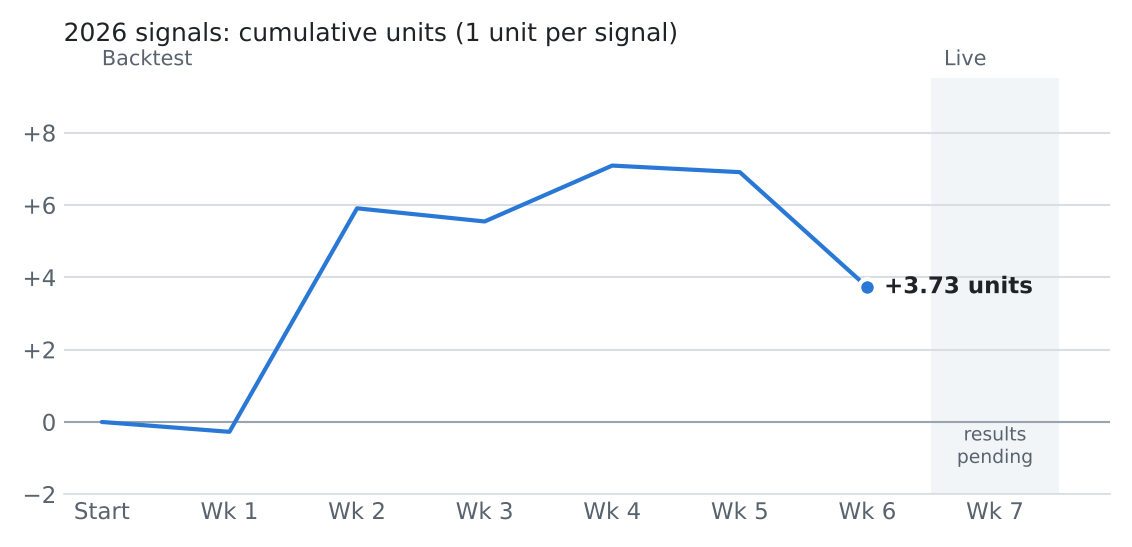
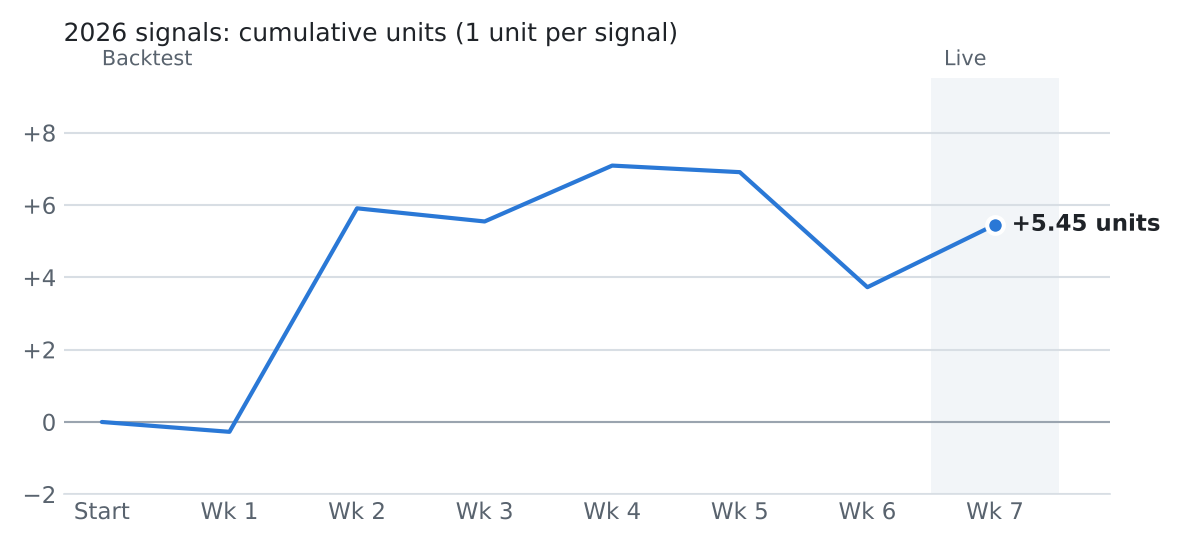
Grade 2026 Week 7: posted totals went 3-1
The four overs posted Thu Oct 15 before kickoff, graded on final scores:
3 wins, 1 loss, +1.73 units at -110. Bets and ratings stay as posted; only
final scores and results were added.

Claude-Session: https://claude.ai/code/session_0159i4mMAddotb85D962zzsM

diff --git a/2026/week-07/ratings.md b/2026/week-07/ratings.md
@@ -8,61 +8,61 @@ Lines as of Thu Oct 15, 10:00 PM ET. Model = SP+ and BCF Toys FEI blended with t
 | Tue Oct 13, 8:00 PM ET | Florida International at Jacksonville State | Jacksonville State −3 | Jacksonville State by 3.1 | 58% Jacksonville State | Jacksonville State by 5.5 | Jacksonville State by 2.5 | 44.5 | 44.2 | 44.9 | 24–27 |
 | Wed Oct 14, 7:30 PM ET | Kennesaw State at Missouri State | Kennesaw State −2.5 | Kennesaw State by 2.6 | 55% Kennesaw State | Kennesaw State by 7.2 | Missouri State by 1.3 | 51.5 | 52.5 | 51.9 | 21–24 |
 | Wed Oct 14, 8:00 PM ET | Western Kentucky at Sam Houston | Western Kentucky −1.5 | Western Kentucky by 1.2 | 51% Western Kentucky | Western Kentucky by 1.0 | Sam Houston by 0.5 | 51.5 | 53.5 | 51.5 | 16–3 |
-| Thu Oct 15, 7:30 PM ET | East Carolina at UAB | East Carolina −4.5 | East Carolina by 5.0 | 63% East Carolina | East Carolina by 9.0 | East Carolina by 8.8 | 49.5 | 49.2 | 49.1 |  |
-| Thu Oct 15, 7:30 PM ET | Georgia Southern at Old Dominion | Georgia Southern −3 | Georgia Southern by 2.9 | 57% Georgia Southern | Georgia Southern by 2.8 | Old Dominion by 0.3 | 47.5 | 44.5 | 47.9 |  |
-| Thu Oct 15, 8:00 PM ET | Colorado State at Texas State | Texas State −15.5 | Texas State by 14.9 | 83% Texas State | Texas State by 10.1 | Texas State by 9.0 | 67.5 | 69.8 | 66.8 |  |
-| Fri Oct 16, 7:30 PM ET | Memphis at Tulane | Memphis −7 | Memphis by 7.2 | 70% Memphis | Memphis by 12.6 | Memphis by 5.6 | 53.5 | 55.5 | 53.4 |  |
-| Fri Oct 16, 8:00 PM ET | Washington at Purdue | Purdue −3.5 | Purdue by 3.2 | 58% Purdue | Washington by 3.0 | Washington by 0.4 | 52.5 | 50.5 | 53.2 |  |
-| Fri Oct 16, 8:00 PM ET | App State at Coastal Carolina | App State −1.5 | App State by 1.3 | 51% App State | App State by 2.5 | Coastal Carolina by 0.8 | 51.5 | 48.5 | 51.7 |  |
-| Sat Oct 17, 12:00 PM ET | Mississippi State at LSU | LSU −15.5 | LSU by 15.4 | 84% LSU | LSU by 11.6 | LSU by 7.1 | 58.5 | 57.2 | 58.1 |  |
-| Sat Oct 17, 12:00 PM ET | Florida at Texas | Texas −11.5 | Texas by 11.5 | 78% Texas | Texas by 15.9 | Texas by 14.2 | 52.5 | 51.5 | 52.9 |  |
-| Sat Oct 17, 12:00 PM ET | Cincinnati at West Virginia | West Virginia −1.5 | West Virginia by 1.5 | 52% West Virginia | Cincinnati by 3.4 | Cincinnati by 0.2 | 62.5 | 63.5 | 62.2 |  |
-| Sat Oct 17, 12:00 PM ET | Kansas at Kansas State | Kansas State −4.5 | Kansas State by 4.6 | 63% Kansas State | Kansas State by 6.3 | Kansas State by 5.0 | 55.5 | 55.5 | 55.3 |  |
-| Sat Oct 17, 12:00 PM ET | Charleston Southern at Clemson | Clemson −43.5 | Clemson by 42.9 | 99% Clemson | Clemson by 33.5 | — | — | — | — |  |
-| Sat Oct 17, 12:00 PM ET | Pittsburgh at Boston College | Pittsburgh −6.5 | Pittsburgh by 6.6 | 66% Pittsburgh | Pittsburgh by 12.8 | Pittsburgh by 11.4 | 43.5 | 42.5 | 44.1 |  |
-| Sat Oct 17, 12:00 PM ET | Virginia at SMU | SMU −9.5 | SMU by 9.3 | 74% SMU | SMU by 6.8 | SMU by 5.4 | 52.5 | 51.8 | 52.5 |  |
-| Sat Oct 17, 12:00 PM ET | Ohio State at Indiana | Ohio State −3.5 | Ohio State by 3.4 | 60% Ohio State | Ohio State by 0.2 | Ohio State by 2.0 | 51.5 | 50.2 | 51.8 |  |
-| Sat Oct 17, 12:00 PM ET | Northwestern at Michigan State | Northwestern −7 | Northwestern by 7.3 | 70% Northwestern | Northwestern by 14.3 | Northwestern by 9.7 | 48.5 | 49.2 | 49.6 |  |
-| Sat Oct 17, 12:00 PM ET | Florida Atlantic at Army | Army −2.5 | Army by 2.6 | 54% Army | Army by 1.5 | Army by 9.7 | 56.5 | 54.5 | 56.7 |  |
-| Sat Oct 17, 12:00 PM ET | Ball State at Bowling Green | Bowling Green −6.5 | Bowling Green by 6.7 | 67% Bowling Green | Bowling Green by 9.7 | Bowling Green by 11.6 | 44.5 | 47.5 | 45.6 |  |
-| Sat Oct 17, 12:00 PM ET | Georgia State at James Madison | James Madison −10.5 | James Madison by 10.8 | 77% James Madison | James Madison by 16.7 | James Madison by 11.7 | 58.5 | 57.5 | 57.9 |  |
-| Sat Oct 17, 12:30 PM ET | Rutgers at Maryland | Maryland −5.5 | Maryland by 5.6 | 64% Maryland | Maryland by 5.9 | Maryland by 7.8 | 59.5 | 56.5 | 59.2 |  |
-| Sat Oct 17, 1:00 PM ET | The Citadel at Texas A&M | Texas A&M −45.5 | Texas A&M by 45.9 | 100% Texas A&M | Texas A&M by 52.5 | — | — | — | — |  |
-| Sat Oct 17, 1:00 PM ET | Charlotte at Temple | Temple −21 | Temple by 20.8 | 90% Temple | Temple by 24.6 | Temple by 16.3 | 50.5 | 46.8 | 51.3 |  |
-| Sat Oct 17, 1:00 PM ET | Massachusetts at Buffalo | Buffalo −7 | Buffalo by 6.7 | 67% Buffalo | Massachusetts by 1.9 | Buffalo by 10.3 | 44.5 | 42.5 | 45.0 |  |
-| Sat Oct 17, 1:30 PM ET | Western Michigan at Central Michigan | Western Michigan −7 | Western Michigan by 7.2 | 70% Western Michigan | Western Michigan by 11.0 | Western Michigan by 10.3 | 42.5 | 43.2 | 43.5 |  |
-| Sat Oct 17, 3:30 PM ET | Auburn at Georgia | Georgia −19.5 | Georgia by 19.6 | 89% Georgia | Georgia by 19.8 | Georgia by 24.7 | 48.5 | 49.8 | 48.6 |  |
-| Sat Oct 17, 3:30 PM ET | Missouri at Ole Miss | Ole Miss −5.5 | Ole Miss by 5.2 | 64% Ole Miss | Ole Miss by 0.4 | Ole Miss by 2.2 | 59.5 | 58.8 | 58.5 |  |
-| Sat Oct 17, 3:30 PM ET | Alabama at Tennessee | Alabama −7.5 | Alabama by 7.4 | 70% Alabama | Alabama by 3.8 | Alabama by 9.5 | 53.5 | 50.8 | 53.7 |  |
-| Sat Oct 17, 3:30 PM ET | Arizona State at Texas Tech | Texas Tech −15.5 | Texas Tech by 15.7 | 84% Texas Tech | Texas Tech by 20.5 | Texas Tech by 15.5 | 48.5 | 49.5 | 48.8 |  |
-| Sat Oct 17, 3:30 PM ET | Georgia Tech at Virginia Tech | Virginia Tech −10 | Virginia Tech by 10.2 | 76% Virginia Tech | Virginia Tech by 10.7 | Virginia Tech by 5.9 | 55.5 | 56.2 | 55.5 |  |
-| Sat Oct 17, 3:30 PM ET | North Carolina at Duke | Duke −3 | Duke by 3.1 | 58% Duke | Duke by 5.8 | Duke by 5.4 | 47.5 | 47.2 | 48.5 |  |
-| Sat Oct 17, 3:30 PM ET | Penn State at Michigan | Michigan −7 | Michigan by 6.8 | 68% Michigan | Michigan by 6.0 | Penn State by 1.5 | 42.5 | 42.5 | 43.3 |  |
-| Sat Oct 17, 3:30 PM ET | Northern Illinois at Wyoming | Wyoming −8.5 | Wyoming by 8.3 | 72% Wyoming | Wyoming by 12.1 | Wyoming by 5.2 | 40.5 | 41.5 | 41.5 |  |
-| Sat Oct 17, 3:30 PM ET | UNLV at Air Force | Air Force −1.5 | Air Force by 1.6 | 52% Air Force | Air Force by 4.8 | Air Force by 2.8 | 46.5 | 47.8 | 47.7 |  |
-| Sat Oct 17, 3:30 PM ET | Toledo at Eastern Michigan | Toledo −6.5 | Toledo by 6.6 | 66% Toledo | Toledo by 6.7 | Toledo by 10.0 | 52.5 | 53.5 | 52.0 |  |
-| Sat Oct 17, 3:30 PM ET | Akron at Miami (OH) | Miami (OH) −10 | Miami (OH) by 10.2 | 76% Miami (OH) | Miami (OH) by 18.5 | Miami (OH) by 16.8 | 46.5 | 46.5 | 47.7 |  |
-| Sat Oct 17, 4:30 PM ET | Tulsa at Rice | Tulsa −4 | Tulsa by 4.1 | 62% Tulsa | Tulsa by 5.8 | Tulsa by 5.0 | 46.5 | 46.5 | 47.0 |  |
-| Sat Oct 17, 5:00 PM ET | Troy at Louisiana | Louisiana −3 | Louisiana by 3.1 | 58% Louisiana | Louisiana by 6.8 | Troy by 1.2 | 49.5 | 49.2 | 50.3 |  |
-| Sat Oct 17, 6:00 PM ET | Washington State at Oregon State | Oregon State −18.5 | Oregon State by 18.5 | 88% Oregon State | Oregon State by 20.7 | Oregon State by 11.8 | 53.5 | 52.5 | 52.4 |  |
-| Sat Oct 17, 7:00 PM ET | Arkansas at Vanderbilt | Vanderbilt −6 | Vanderbilt by 6.0 | 65% Vanderbilt | Vanderbilt by 6.1 | Vanderbilt by 4.2 | 50.5 | 49.8 | 51.6 |  |
-| Sat Oct 17, 7:00 PM ET | TCU at Baylor | Baylor −5.5 | Baylor by 5.8 | 65% Baylor | Baylor by 6.0 | Baylor by 5.6 | 49.5 | 48.2 | 49.0 |  |
-| Sat Oct 17, 7:00 PM ET | Florida State at Miami | Miami −21.5 | Miami by 21.6 | 91% Miami | Miami by 24.5 | Miami by 18.2 | 56.5 | 56.5 | 56.7 |  |
-| Sat Oct 17, 7:00 PM ET | Kent State at South Florida | South Florida −20.5 | South Florida by 20.9 | 90% South Florida | South Florida by 25.7 | South Florida by 19.8 | 46.5 | 45.5 | 47.1 |  |
-| Sat Oct 17, 7:00 PM ET | Nevada at North Dakota State | North Dakota State −14.5 | North Dakota State by 14.4 | 82% North Dakota State | North Dakota State by 15.4 | North Dakota State by 6.6 | 45.5 | 42.5 | 45.5 |  |
-| Sat Oct 17, 7:00 PM ET | Arkansas State at Southern Miss | Arkansas State −7 | Arkansas State by 6.7 | 67% Arkansas State | Arkansas State by 7.8 | Arkansas State by 2.4 | 61.5 | 62.2 | 61.0 |  |
-| Sat Oct 17, 7:30 PM ET | Kentucky at Oklahoma | Oklahoma −6.5 | Oklahoma by 6.5 | 66% Oklahoma | Oklahoma by 6.8 | Oklahoma by 5.6 | 43.5 | 43.5 | 44.5 |  |
-| Sat Oct 17, 7:30 PM ET | Notre Dame at BYU | Notre Dame −10.5 | Notre Dame by 10.3 | 76% Notre Dame | Notre Dame by 4.0 | Notre Dame by 10.9 | 47.5 | 46.5 | 48.4 |  |
-| Sat Oct 17, 7:30 PM ET | Oklahoma State at Houston | Houston −4.5 | Houston by 4.4 | 62% Houston | Houston by 4.4 | Houston by 10.9 | 60.5 | 62.5 | 59.7 |  |
-| Sat Oct 17, 7:30 PM ET | Elon at Stanford | Stanford −35.5 | Stanford by 34.4 | 98% Stanford | Stanford by 15.8 | — | — | — | — |  |
-| Sat Oct 17, 7:30 PM ET | Louisville at Syracuse | Louisville −15.5 | Louisville by 15.3 | 84% Louisville | Louisville by 10.9 | Louisville by 15.0 | 56.5 | 55.8 | 56.4 |  |
-| Sat Oct 17, 7:30 PM ET | Wisconsin at UCLA | UCLA −2.5 | UCLA by 2.7 | 55% UCLA | UCLA by 7.2 | UCLA by 2.8 | 46.5 | 42.8 | 46.7 |  |
-| Sat Oct 17, 8:00 PM ET | Navy at UTSA | UTSA −6.5 | UTSA by 6.6 | 67% UTSA | UTSA by 3.4 | UTSA by 7.0 | 54.5 | 55.5 | 54.4 |  |
-| Sat Oct 17, 8:00 PM ET | Louisiana Tech at UL Monroe | Louisiana Tech −15.5 | Louisiana Tech by 15.4 | 84% Louisiana Tech | Louisiana Tech by 20.0 | Louisiana Tech by 14.9 | 55.5 | 55.8 | 56.1 |  |
-| Sat Oct 17, 9:00 PM ET | San José State at UTEP | San José State −6.5 | San José State by 6.9 | 68% San José State | San José State by 9.9 | San José State by 10.7 | 49.5 | 45.5 | 48.9 |  |
-| Sat Oct 17, 10:00 PM ET | Ohio at Sacramento State | Ohio −15.5 | Ohio by 15.7 | 84% Ohio | Ohio by 15.5 | Ohio by 23.9 | 49.5 | 48.5 | 49.5 |  |
-| Sat Oct 17, 10:15 PM ET | Utah at Colorado | Utah −15.5 | Utah by 15.8 | 84% Utah | Utah by 23.4 | Utah by 26.5 | 49.5 | 49.5 | 49.5 |  |
-| Sat Oct 17, 10:30 PM ET | Wake Forest at California | Wake Forest −10 | Wake Forest by 10.1 | 76% Wake Forest | Wake Forest by 10.5 | Wake Forest by 13.7 | 53.5 | 53.5 | 53.4 |  |
-| Sat Oct 17, 10:30 PM ET | Fresno State at San Diego State | Fresno State −7.5 | Fresno State by 7.7 | 71% Fresno State | Fresno State by 11.3 | Fresno State by 7.8 | 44.5 | 45.5 | 45.4 |  |
-| Sat Oct 17, 10:30 PM ET | New Mexico at Hawai'i | New Mexico −15.5 | New Mexico by 15.8 | 84% New Mexico | New Mexico by 22.7 | New Mexico by 17.4 | 45.5 | 44.5 | 46.2 |  |
-| Sat Oct 17, 11:00 PM ET | Nebraska at Oregon | Oregon −7 | Oregon by 7.0 | 69% Oregon | Oregon by 6.6 | Oregon by 8.1 | 52.5 | 51.5 | 52.8 |  |
+| Thu Oct 15, 7:30 PM ET | East Carolina at UAB | East Carolina −4.5 | East Carolina by 5.0 | 63% East Carolina | East Carolina by 9.0 | East Carolina by 8.8 | 49.5 | 49.2 | 49.1 | 17–30 |
+| Thu Oct 15, 7:30 PM ET | Georgia Southern at Old Dominion | Georgia Southern −3 | Georgia Southern by 2.9 | 57% Georgia Southern | Georgia Southern by 2.8 | Old Dominion by 0.3 | 47.5 | 44.5 | 47.9 | 23–15 |
+| Thu Oct 15, 8:00 PM ET | Colorado State at Texas State | Texas State −15.5 | Texas State by 14.9 | 83% Texas State | Texas State by 10.1 | Texas State by 9.0 | 67.5 | 69.8 | 66.8 | 27–66 |
+| Fri Oct 16, 7:30 PM ET | Memphis at Tulane | Memphis −7 | Memphis by 7.2 | 70% Memphis | Memphis by 12.6 | Memphis by 5.6 | 53.5 | 55.5 | 53.4 | 17–31 |
+| Fri Oct 16, 8:00 PM ET | Washington at Purdue | Purdue −3.5 | Purdue by 3.2 | 58% Purdue | Washington by 3.0 | Washington by 0.4 | 52.5 | 50.5 | 53.2 | 38–26 |
+| Fri Oct 16, 8:00 PM ET | App State at Coastal Carolina | App State −1.5 | App State by 1.3 | 51% App State | App State by 2.5 | Coastal Carolina by 0.8 | 51.5 | 48.5 | 51.7 | 35–32 |
+| Sat Oct 17, 12:00 PM ET | Mississippi State at LSU | LSU −15.5 | LSU by 15.4 | 84% LSU | LSU by 11.6 | LSU by 7.1 | 58.5 | 57.2 | 58.1 | 0–31 |
+| Sat Oct 17, 12:00 PM ET | Florida at Texas | Texas −11.5 | Texas by 11.5 | 78% Texas | Texas by 15.9 | Texas by 14.2 | 52.5 | 51.5 | 52.9 | 27–24 |
+| Sat Oct 17, 12:00 PM ET | Cincinnati at West Virginia | West Virginia −1.5 | West Virginia by 1.5 | 52% West Virginia | Cincinnati by 3.4 | Cincinnati by 0.2 | 62.5 | 63.5 | 62.2 | 42–45 |
+| Sat Oct 17, 12:00 PM ET | Kansas at Kansas State | Kansas State −4.5 | Kansas State by 4.6 | 63% Kansas State | Kansas State by 6.3 | Kansas State by 5.0 | 55.5 | 55.5 | 55.3 | 24–35 |
+| Sat Oct 17, 12:00 PM ET | Charleston Southern at Clemson | Clemson −43.5 | Clemson by 42.9 | 99% Clemson | Clemson by 33.5 | — | — | — | — | 0–37 |
+| Sat Oct 17, 12:00 PM ET | Pittsburgh at Boston College | Pittsburgh −6.5 | Pittsburgh by 6.6 | 66% Pittsburgh | Pittsburgh by 12.8 | Pittsburgh by 11.4 | 43.5 | 42.5 | 44.1 | 21–27 |
+| Sat Oct 17, 12:00 PM ET | Virginia at SMU | SMU −9.5 | SMU by 9.3 | 74% SMU | SMU by 6.8 | SMU by 5.4 | 52.5 | 51.8 | 52.5 | 13–23 |
+| Sat Oct 17, 12:00 PM ET | Ohio State at Indiana | Ohio State −3.5 | Ohio State by 3.4 | 60% Ohio State | Ohio State by 0.2 | Ohio State by 2.0 | 51.5 | 50.2 | 51.8 | 19–15 |
+| Sat Oct 17, 12:00 PM ET | Northwestern at Michigan State | Northwestern −7 | Northwestern by 7.3 | 70% Northwestern | Northwestern by 14.3 | Northwestern by 9.7 | 48.5 | 49.2 | 49.6 | 24–21 |
+| Sat Oct 17, 12:00 PM ET | Florida Atlantic at Army | Army −2.5 | Army by 2.6 | 54% Army | Army by 1.5 | Army by 9.7 | 56.5 | 54.5 | 56.7 | 24–56 |
+| Sat Oct 17, 12:00 PM ET | Ball State at Bowling Green | Bowling Green −6.5 | Bowling Green by 6.7 | 67% Bowling Green | Bowling Green by 9.7 | Bowling Green by 11.6 | 44.5 | 47.5 | 45.6 | 32–31 |
+| Sat Oct 17, 12:00 PM ET | Georgia State at James Madison | James Madison −10.5 | James Madison by 10.8 | 77% James Madison | James Madison by 16.7 | James Madison by 11.7 | 58.5 | 57.5 | 57.9 | 22–49 |
+| Sat Oct 17, 12:30 PM ET | Rutgers at Maryland | Maryland −5.5 | Maryland by 5.6 | 64% Maryland | Maryland by 5.9 | Maryland by 7.8 | 59.5 | 56.5 | 59.2 | 37–30 |
+| Sat Oct 17, 1:00 PM ET | The Citadel at Texas A&M | Texas A&M −45.5 | Texas A&M by 45.9 | 100% Texas A&M | Texas A&M by 52.5 | — | — | — | — | 0–41 |
+| Sat Oct 17, 1:00 PM ET | Charlotte at Temple | Temple −21 | Temple by 20.8 | 90% Temple | Temple by 24.6 | Temple by 16.3 | 50.5 | 46.8 | 51.3 | 38–31 |
+| Sat Oct 17, 1:00 PM ET | Massachusetts at Buffalo | Buffalo −7 | Buffalo by 6.7 | 67% Buffalo | Massachusetts by 1.9 | Buffalo by 10.3 | 44.5 | 42.5 | 45.0 | 18–25 |
+| Sat Oct 17, 1:30 PM ET | Western Michigan at Central Michigan | Western Michigan −7 | Western Michigan by 7.2 | 70% Western Michigan | Western Michigan by 11.0 | Western Michigan by 10.3 | 42.5 | 43.2 | 43.5 | 21–14 |
+| Sat Oct 17, 3:30 PM ET | Auburn at Georgia | Georgia −19.5 | Georgia by 19.6 | 89% Georgia | Georgia by 19.8 | Georgia by 24.7 | 48.5 | 49.8 | 48.6 | 27–24 |
+| Sat Oct 17, 3:30 PM ET | Missouri at Ole Miss | Ole Miss −5.5 | Ole Miss by 5.2 | 64% Ole Miss | Ole Miss by 0.4 | Ole Miss by 2.2 | 59.5 | 58.8 | 58.5 | 3–31 |
+| Sat Oct 17, 3:30 PM ET | Alabama at Tennessee | Alabama −7.5 | Alabama by 7.4 | 70% Alabama | Alabama by 3.8 | Alabama by 9.5 | 53.5 | 50.8 | 53.7 | 10–26 |
+| Sat Oct 17, 3:30 PM ET | Arizona State at Texas Tech | Texas Tech −15.5 | Texas Tech by 15.7 | 84% Texas Tech | Texas Tech by 20.5 | Texas Tech by 15.5 | 48.5 | 49.5 | 48.8 | 25–53 |
+| Sat Oct 17, 3:30 PM ET | Georgia Tech at Virginia Tech | Virginia Tech −10 | Virginia Tech by 10.2 | 76% Virginia Tech | Virginia Tech by 10.7 | Virginia Tech by 5.9 | 55.5 | 56.2 | 55.5 | 24–34 |
+| Sat Oct 17, 3:30 PM ET | North Carolina at Duke | Duke −3 | Duke by 3.1 | 58% Duke | Duke by 5.8 | Duke by 5.4 | 47.5 | 47.2 | 48.5 | 24–20 |
+| Sat Oct 17, 3:30 PM ET | Penn State at Michigan | Michigan −7 | Michigan by 6.8 | 68% Michigan | Michigan by 6.0 | Penn State by 1.5 | 42.5 | 42.5 | 43.3 | 18–21 |
+| Sat Oct 17, 3:30 PM ET | Northern Illinois at Wyoming | Wyoming −8.5 | Wyoming by 8.3 | 72% Wyoming | Wyoming by 12.1 | Wyoming by 5.2 | 40.5 | 41.5 | 41.5 | 23–41 |
+| Sat Oct 17, 3:30 PM ET | UNLV at Air Force | Air Force −1.5 | Air Force by 1.6 | 52% Air Force | Air Force by 4.8 | Air Force by 2.8 | 46.5 | 47.8 | 47.7 | 31–41 |
+| Sat Oct 17, 3:30 PM ET | Toledo at Eastern Michigan | Toledo −6.5 | Toledo by 6.6 | 66% Toledo | Toledo by 6.7 | Toledo by 10.0 | 52.5 | 53.5 | 52.0 | 34–14 |
+| Sat Oct 17, 3:30 PM ET | Akron at Miami (OH) | Miami (OH) −10 | Miami (OH) by 10.2 | 76% Miami (OH) | Miami (OH) by 18.5 | Miami (OH) by 16.8 | 46.5 | 46.5 | 47.7 | 14–34 |
+| Sat Oct 17, 4:30 PM ET | Tulsa at Rice | Tulsa −4 | Tulsa by 4.1 | 62% Tulsa | Tulsa by 5.8 | Tulsa by 5.0 | 46.5 | 46.5 | 47.0 | 38–17 |
+| Sat Oct 17, 5:00 PM ET | Troy at Louisiana | Louisiana −3 | Louisiana by 3.1 | 58% Louisiana | Louisiana by 6.8 | Troy by 1.2 | 49.5 | 49.2 | 50.3 | 6–33 |
+| Sat Oct 17, 6:00 PM ET | Washington State at Oregon State | Oregon State −18.5 | Oregon State by 18.5 | 88% Oregon State | Oregon State by 20.7 | Oregon State by 11.8 | 53.5 | 52.5 | 52.4 | 30–48 |
+| Sat Oct 17, 7:00 PM ET | Arkansas at Vanderbilt | Vanderbilt −6 | Vanderbilt by 6.0 | 65% Vanderbilt | Vanderbilt by 6.1 | Vanderbilt by 4.2 | 50.5 | 49.8 | 51.6 | 31–21 |
+| Sat Oct 17, 7:00 PM ET | TCU at Baylor | Baylor −5.5 | Baylor by 5.8 | 65% Baylor | Baylor by 6.0 | Baylor by 5.6 | 49.5 | 48.2 | 49.0 | 17–6 |
+| Sat Oct 17, 7:00 PM ET | Florida State at Miami | Miami −21.5 | Miami by 21.6 | 91% Miami | Miami by 24.5 | Miami by 18.2 | 56.5 | 56.5 | 56.7 | 35–43 |
+| Sat Oct 17, 7:00 PM ET | Kent State at South Florida | South Florida −20.5 | South Florida by 20.9 | 90% South Florida | South Florida by 25.7 | South Florida by 19.8 | 46.5 | 45.5 | 47.1 | 2–29 |
+| Sat Oct 17, 7:00 PM ET | Nevada at North Dakota State | North Dakota State −14.5 | North Dakota State by 14.4 | 82% North Dakota State | North Dakota State by 15.4 | North Dakota State by 6.6 | 45.5 | 42.5 | 45.5 | 17–31 |
+| Sat Oct 17, 7:00 PM ET | Arkansas State at Southern Miss | Arkansas State −7 | Arkansas State by 6.7 | 67% Arkansas State | Arkansas State by 7.8 | Arkansas State by 2.4 | 61.5 | 62.2 | 61.0 | 23–13 |
+| Sat Oct 17, 7:30 PM ET | Kentucky at Oklahoma | Oklahoma −6.5 | Oklahoma by 6.5 | 66% Oklahoma | Oklahoma by 6.8 | Oklahoma by 5.6 | 43.5 | 43.5 | 44.5 | 21–13 |
+| Sat Oct 17, 7:30 PM ET | Notre Dame at BYU | Notre Dame −10.5 | Notre Dame by 10.3 | 76% Notre Dame | Notre Dame by 4.0 | Notre Dame by 10.9 | 47.5 | 46.5 | 48.4 | 24–28 |
+| Sat Oct 17, 7:30 PM ET | Oklahoma State at Houston | Houston −4.5 | Houston by 4.4 | 62% Houston | Houston by 4.4 | Houston by 10.9 | 60.5 | 62.5 | 59.7 | 32–35 |
+| Sat Oct 17, 7:30 PM ET | Elon at Stanford | Stanford −35.5 | Stanford by 34.4 | 98% Stanford | Stanford by 15.8 | — | — | — | — | 7–34 |
+| Sat Oct 17, 7:30 PM ET | Louisville at Syracuse | Louisville −15.5 | Louisville by 15.3 | 84% Louisville | Louisville by 10.9 | Louisville by 15.0 | 56.5 | 55.8 | 56.4 | 34–26 |
+| Sat Oct 17, 7:30 PM ET | Wisconsin at UCLA | UCLA −2.5 | UCLA by 2.7 | 55% UCLA | UCLA by 7.2 | UCLA by 2.8 | 46.5 | 42.8 | 46.7 | 7–17 |
+| Sat Oct 17, 8:00 PM ET | Navy at UTSA | UTSA −6.5 | UTSA by 6.6 | 67% UTSA | UTSA by 3.4 | UTSA by 7.0 | 54.5 | 55.5 | 54.4 | 34–38 |
+| Sat Oct 17, 8:00 PM ET | Louisiana Tech at UL Monroe | Louisiana Tech −15.5 | Louisiana Tech by 15.4 | 84% Louisiana Tech | Louisiana Tech by 20.0 | Louisiana Tech by 14.9 | 55.5 | 55.8 | 56.1 | 24–0 |
+| Sat Oct 17, 9:00 PM ET | San José State at UTEP | San José State −6.5 | San José State by 6.9 | 68% San José State | San José State by 9.9 | San José State by 10.7 | 49.5 | 45.5 | 48.9 | 24–11 |
+| Sat Oct 17, 10:00 PM ET | Ohio at Sacramento State | Ohio −15.5 | Ohio by 15.7 | 84% Ohio | Ohio by 15.5 | Ohio by 23.9 | 49.5 | 48.5 | 49.5 | 48–7 |
+| Sat Oct 17, 10:15 PM ET | Utah at Colorado | Utah −15.5 | Utah by 15.8 | 84% Utah | Utah by 23.4 | Utah by 26.5 | 49.5 | 49.5 | 49.5 | 27–24 |
+| Sat Oct 17, 10:30 PM ET | Wake Forest at California | Wake Forest −10 | Wake Forest by 10.1 | 76% Wake Forest | Wake Forest by 10.5 | Wake Forest by 13.7 | 53.5 | 53.5 | 53.4 | 41–7 |
+| Sat Oct 17, 10:30 PM ET | Fresno State at San Diego State | Fresno State −7.5 | Fresno State by 7.7 | 71% Fresno State | Fresno State by 11.3 | Fresno State by 7.8 | 44.5 | 45.5 | 45.4 | 23–26 |
+| Sat Oct 17, 10:30 PM ET | New Mexico at Hawai'i | New Mexico −15.5 | New Mexico by 15.8 | 84% New Mexico | New Mexico by 22.7 | New Mexico by 17.4 | 45.5 | 44.5 | 46.2 | 21–10 |
+| Sat Oct 17, 11:00 PM ET | Nebraska at Oregon | Oregon −7 | Oregon by 7.0 | 69% Oregon | Oregon by 6.6 | Oregon by 8.1 | 52.5 | 51.5 | 52.8 | 14–17 |

diff --git a/2026/week-07/README.md b/2026/week-07/README.md
@@ -8,12 +8,12 @@ Live: posted Thu Oct 15, 10:00 PM ET, before every signal's kickoff. Signals are
 
 | Kickoff | Game | Bet | Rule | Model | EV | Result |
 |---|---|---|---|---|---:|---|
-| Sat Oct 17, 12:00 PM ET | Ball State at Bowling Green | **Over 44.5** | Totals, early number | total 45.6 | +2.9% | pending |
-| Sat Oct 17, 3:30 PM ET | Northern Illinois at Wyoming | **Over 40.5** | Totals, early number | total 41.5 | +4.2% | pending |
-| Sat Oct 17, 7:00 PM ET | Arkansas at Vanderbilt | **Over 50.5** | Totals, early number | total 51.6 | +2.8% | pending |
-| Sat Oct 17, 7:30 PM ET | Kentucky at Oklahoma | **Over 43.5** | Totals, early number | total 44.5 | +2.5% | pending |
+| Sat Oct 17, 12:00 PM ET | Ball State at Bowling Green | **Over 44.5** | Totals, early number | total 45.6 | +2.9% | ✅ W (+0.91) · Ball State 32, Bowling Green 31 |
+| Sat Oct 17, 3:30 PM ET | Northern Illinois at Wyoming | **Over 40.5** | Totals, early number | total 41.5 | +4.2% | ✅ W (+0.91) · Northern Illinois 23, Wyoming 41 |
+| Sat Oct 17, 7:00 PM ET | Arkansas at Vanderbilt | **Over 50.5** | Totals, early number | total 51.6 | +2.8% | ✅ W (+0.91) · Arkansas 31, Vanderbilt 21 |
+| Sat Oct 17, 7:30 PM ET | Kentucky at Oklahoma | **Over 43.5** | Totals, early number | total 44.5 | +2.5% | ❌ L (-1.00) · Kentucky 21, Oklahoma 13 |
 
-**Week:** no results yet
+**Week:** 3–1, +1.73 units
 
 ## Ratings
 

diff --git a/2026/README.md b/2026/README.md
@@ -6,7 +6,7 @@ Weekly ratings and signals from SP+ and BCF Toys FEI projections blended with th
 
 | | Signals | Record |
 |---|---:|---|
-| Live, posted before kickoff | 4 | no results yet |
+| Live, posted before kickoff | 4 | 3–1, +1.73 units |
 | Backtest, out-of-sample | 44 | 25–19, +3.73 units |
 | Real bets logged (`cfb log-bet`) | 0 | none logged yet |
 
@@ -32,7 +32,7 @@ Live signals are frozen when posted and graded at the price shown. Backtest week
 | [Week 4](week-04/) | 8 | 5–3, +1.55 units | backtest |
 | [Week 5](week-05/) | 4 | 2–2, -0.18 units | backtest |
 | [Week 6](week-06/) | 7 | 2–5, -3.18 units | backtest |
-| [Week 7](week-07/) | 4 | no results yet | live |
+| [Week 7](week-07/) | 4 | 3–1, +1.73 units | live |
 
 ## Backtest, 2022–2025
 
